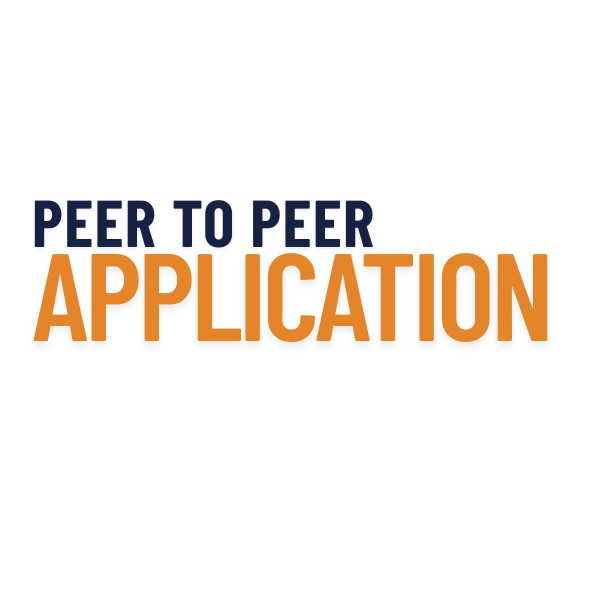
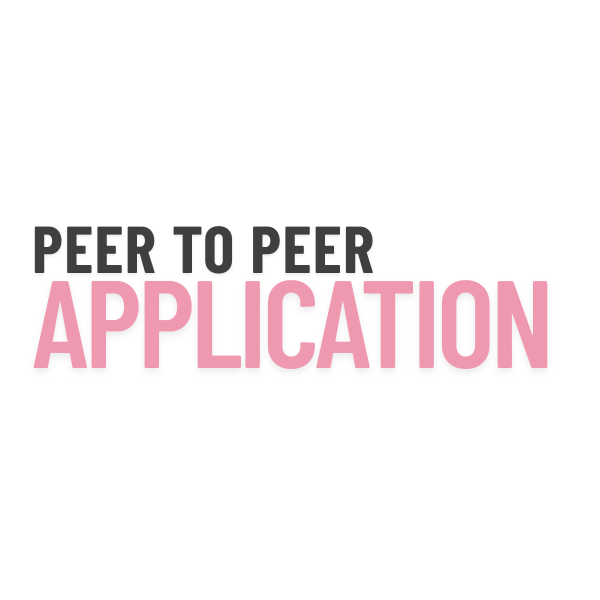
latest update

Changed region(s): [[0.03, 0.33, 0.93, 0.63]]

diff --git a/css/style.css b/css/style.css
@@ -1,7 +1,7 @@
 @import url('https://fonts.googleapis.com/css2?family=Roboto:ital,wght@0,100..900;1,100..900&display=swap');
 
 :root{
-    --main-color:#e38528;
+    --main-color: #ef99b1;
 
 }
 
@@ -25,7 +25,7 @@ html{
 }
 
 body{
-    background: #fcf2e8;
+    background: #faeff2;
     padding-left: 30rem;
 }
 
@@ -37,7 +37,7 @@ section{
 .heading{
     font-size: 4rem;
     padding-bottom: 1rem;
-    color: #111;
+    color: #403e3e;
     text-transform: uppercase;
 }
 
@@ -57,7 +57,7 @@ section{
 }
 
 .btn:hover{
-    background: #111;
+    background: #403e3e;
     letter-spacing: .2rem;
 }
 
@@ -66,7 +66,7 @@ header{
     top: 0;
     left: 0;
     bottom: 0;
-    background:#222;
+    background:#383838;
     display: flex;
     align-items: center;
     justify-content: space-between;
@@ -187,7 +187,7 @@ header .follow a:hover{
 
 .home .content h3{
     font-size: 4.5rem;
-    color:#111;
+    color:#403e3e;
     text-transform: uppercase;
 }
 
@@ -198,7 +198,7 @@ header .follow a:hover{
 
 .home .content .info{
     font-size: 2.5rem;
-    color: #111;
+    color: #403e3e;
     padding: .5rem 0;
 }
 
@@ -234,7 +234,7 @@ header .follow a:hover{
 }
 
 .about .row-1 .content h3{
-    color: #333;
+    color: #5b5959;
     font-size: 3.5rem;
 }
 
@@ -288,7 +288,7 @@ header .follow a:hover{
     justify-content: space-between;
     padding: .7rem 0;
     font-size: 1.7rem;
-    color: #111;
+    color: #403e3e;
     font-weight: 400;
 }
 
@@ -386,7 +386,7 @@ header .follow a:hover{
 .experience .box-container .box .content h3{
     font-size: 2.5rem;
     padding: .5rem 0;
-    color: #111;
+    color: #403e3e;
 
 }
 
@@ -431,7 +431,7 @@ header .follow a:hover{
     bottom: .5rem;
     left: 1rem;
     font-size: 2.5rem;
-    color: #333;
+    color: #5b5959;
     text-transform: uppercase;
 }
 
@@ -447,7 +447,7 @@ header .follow a:hover{
     width: 4rem;
     border-radius: .5rem;
     background: #eee;
-    color: #333;
+    color: #5b5959;
     font-size: 1.7rem;
     line-height: 4rem;
     text-align: center;
@@ -486,7 +486,7 @@ header .follow a:hover{
 }
 
 .contact .icons-container .icons h3{
-    color: #111;
+    color: #403e3e;
     font-size: 2rem;
     padding: .5rem 0;
 }
@@ -526,8 +526,8 @@ header .follow a:hover{
 
 .contact .row form .box, .contact .row form textarea{
     width: 100%;
-    border-bottom: .1rem solid #333;
-    color: #333;
+    border-bottom: .1rem solid #5b5959;
+    color: #5b5959;
     text-transform: none;
     font-size: 1.7rem;
     padding-top: 1rem;

diff --git a/index.html b/index.html
@@ -192,9 +192,6 @@
         <div class="box">
             <img src="images/04.png" alt="">
             <h3> project 04 </h3>
-            <div class="icons">
-                <a href="" class="fas fa-link"></a>
-            </div>
         </div>
 
     </div>
